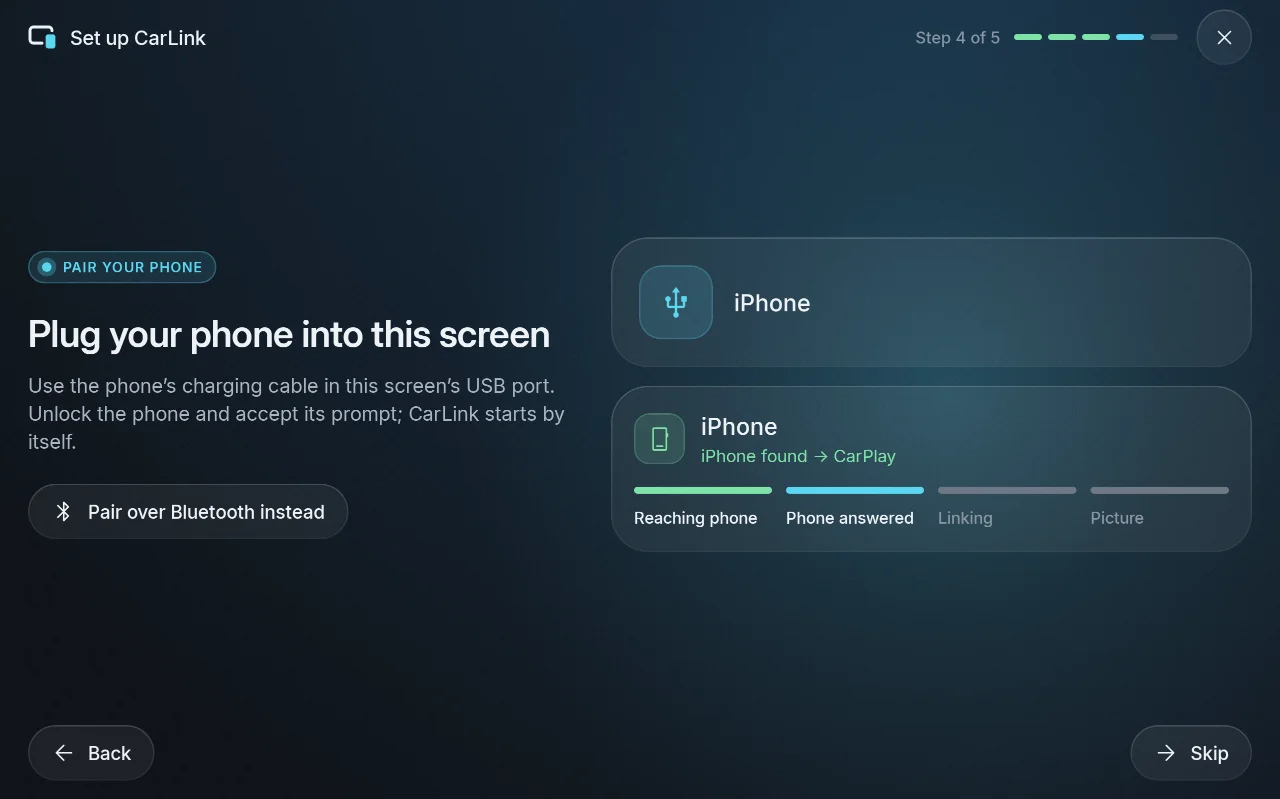
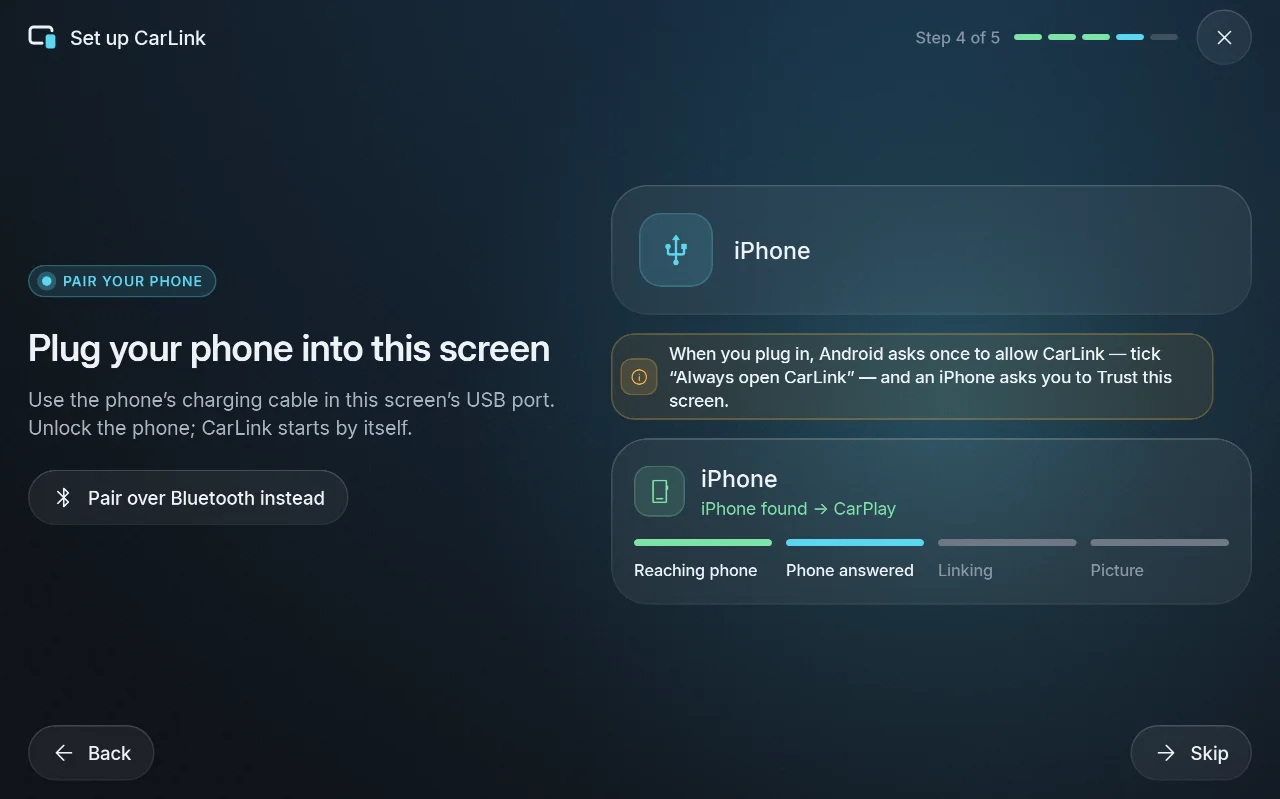
Ask for the overlay and the VPN consent up front in setup
On the tablet a first drive met three system prompts at connect time.
The Access step now marks "Display over other apps" and the wired CarPlay
VPN as Recommended, each with a one-line reason, and keeps "Allow all" the
lit action until both are allowed (Continue still works). Allowing the VPN
tries the silent adb consent first and opens Android's dialog only when
that cannot help. The overlay row still opens the per-app overlay page.

The cable pairing step says what to expect before plugging in: Android's
one-time "Always open CarLink" prompt and the iPhone's Trust prompt.

Gallery: setup/permissions-recommended and setup/pair-cable-waiting, also
at headunit-1024x600.

Changed region(s): [[0.4688, 0.2703, 0.9688, 0.7209], [0.0, 0.3004, 0.4375, 0.5707], [0.0312, 0.6008, 0.2812, 0.6608]]

diff --git a/app/src/main/java/com/carlink/app/ui/setup/SetupScreen.kt b/app/src/main/java/com/carlink/app/ui/setup/SetupScreen.kt
@@ -54,6 +54,7 @@ import androidx.compose.runtime.mutableLongStateOf
 import androidx.compose.runtime.mutableStateOf
 import androidx.compose.runtime.produceState
 import androidx.compose.runtime.remember
+import androidx.compose.runtime.rememberCoroutineScope
 import androidx.compose.runtime.saveable.listSaver
 import androidx.compose.runtime.saveable.rememberSaveable
 import androidx.compose.runtime.setValue
@@ -110,6 +111,7 @@ import com.carlink.app.ui.theme.CarLinkTokens
 import com.carlink.app.ui.theme.CarMotion
 import com.carlink.app.ui.theme.LocalReduceMotion
 import com.carlink.app.ui.theme.WidthClass
+import com.carlink.core.connection.AdbVpnConsent
 import com.carlink.core.connection.PairingSession
 import com.carlink.core.core.Engine
 import com.carlink.core.core.LinkStage
@@ -118,6 +120,9 @@ import com.carlink.core.core.PhoneKind
 import com.carlink.core.core.Transport
 import com.carlink.core.detect.PairedPhone
 import com.carlink.core.settings.CarBrand
+import kotlinx.coroutines.Dispatchers
+import kotlinx.coroutines.launch
+import kotlinx.coroutines.withContext
 
 /**
  * First-time setup (design/RESEARCH_PLUG_AND_PLAY.md "Lessons"): welcome, one permission step
@@ -148,6 +153,7 @@ fun SetupScreen(vm: CarLinkViewModel, start: SetupStep, onExit: () -> Unit) {
     val wirelessUnavailable by vm.wirelessUnavailable.collectAsStateWithLifecycle()
     val home by vm.home.collectAsStateWithLifecycle()
     val pairing = remember { PairingSession(context) }
+    val scope = rememberCoroutineScope()
     DisposableEffect(step == SetupStep.PAIR) {
         if (step == SetupStep.PAIR) pairing.start()
         onDispose { pairing.close() }
@@ -215,7 +221,11 @@ fun SetupScreen(vm: CarLinkViewModel, start: SetupStep, onExit: () -> Unit) {
                     Uri.parse("package:${context.packageName}"))) { SystemScreens.openOverlaySettings(context) }
                 GrantKind.BATTERY -> launchOr(system, Intent(Settings.ACTION_REQUEST_IGNORE_BATTERY_OPTIMIZATIONS,
                     Uri.parse("package:${context.packageName}"))) { SystemScreens.openBatterySettings(context) }
-                GrantKind.VPN -> android.net.VpnService.prepare(context)?.let { launchOr(system, it) { } } ?: run { reads++ }
+                // The stereo's own approved adb can allow it with no dialog; Android's dialog otherwise.
+                GrantKind.VPN -> scope.launch {
+                    if (withContext(Dispatchers.IO) { AdbVpnConsent.ensure(context) }) reads++
+                    else android.net.VpnService.prepare(context)?.let { launchOr(system, it) { } } ?: run { reads++ }
+                }
             }
         }
         override fun setCarBrand(brand: CarBrand) = vm.setCarBrand(brand)
@@ -433,7 +443,7 @@ private fun SetupBottomBar(ui: SetupUi, actions: SetupActions, margin: Dp) {
             SetupStep.WELCOME -> IonButton(stringResource(R.string.carlink_setup_welcome_start), actions::next,
                 icon = R.drawable.carlink_ic_arrow_forward)
             // One lit action per screen: while something needed is missing, "Allow all" is the lit one.
-            SetupStep.PERMISSIONS -> if (ui.missingRequired > 0) {
+            SetupStep.PERMISSIONS -> if (ui.missingNeeded > 0) {
                 GlassButton(stringResource(R.string.carlink_setup_continue), actions::next, icon = R.drawable.carlink_ic_arrow_forward)
             } else {
                 IonButton(stringResource(R.string.carlink_setup_continue), actions::next, icon = R.drawable.carlink_ic_arrow_forward)
@@ -563,7 +573,7 @@ private fun pairCopy(ui: SetupUi): Copy {
 @Composable
 private fun PermissionSummary(ui: SetupUi, actions: SetupActions) {
     val colors = CarLinkTokens.colors
-    val all = ui.missingRequired == 0
+    val all = ui.missingNeeded == 0
     Row(verticalAlignment = Alignment.CenterVertically) {
         IconTile(if (all) R.drawable.carlink_ic_check_circle_filled else R.drawable.carlink_ic_lock,
             tint = if (all) colors.success else colors.warning, size = if (isCar) 48.dp else 36.dp)
@@ -667,8 +677,12 @@ private fun PermissionList(ui: SetupUi, actions: SetupActions) {
                 icon = p.item.icon,
                 onClick = if (p.granted) null else ({ actions.allow(p.item) }),
                 role = androidx.compose.ui.semantics.Role.Button,
-                tags = if (p.item.optional && !p.granted) ({ Tag(stringResource(R.string.carlink_setup_permission_optional),
-                    scheme.onSurfaceVariant) }) else null,
+                tags = when {
+                    p.granted -> null
+                    p.item.need == Need.RECOMMENDED -> ({ Tag(stringResource(R.string.carlink_setup_permission_recommended), scheme.primary) })
+                    p.item.need == Need.OPTIONAL -> ({ Tag(stringResource(R.string.carlink_setup_permission_optional), scheme.onSurfaceVariant) })
+                    else -> null
+                },
             ) {
                 if (p.granted) {
                     Row(verticalAlignment = Alignment.CenterVertically) {
@@ -693,6 +707,10 @@ private fun PairPanel(ui: SetupUi, actions: SetupActions) {
     val session = sessionOf(ui)
     Column(verticalArrangement = Arrangement.spacedBy(dimens.gutter)) {
         if (ui.cable) CableCard(session) else NameCard(ui, actions)
+        // The first cable connection's two one-time prompts, said before they appear.
+        if (ui.cable && session?.stage != LinkStage.CONNECTED) {
+            NoticeLine(stringResource(R.string.carlink_setup_pair_cable_prompts), R.drawable.carlink_ic_info)
+        }
         // On a stereo whose Bluetooth apps cannot use, say so before the driver pairs (the failure copy says it after).
         val externalFailure = session?.stage == LinkStage.FAILED && session.problem == com.carlink.core.core.LinkProblem.EXTERNAL_BLUETOOTH
         if (ui.wirelessUnavailable && !ui.cable && !externalFailure && session?.stage != LinkStage.CONNECTED) {

diff --git a/app/src/main/java/com/carlink/app/ui/setup/SetupModel.kt b/app/src/main/java/com/carlink/app/ui/setup/SetupModel.kt
@@ -21,16 +21,23 @@ enum class SetupStep { WELCOME, PERMISSIONS, CAR, PAIR, DONE }
 enum class GrantKind { RUNTIME, OVERLAY, BATTERY, VPN }
 
 /**
- * One line of the permission step: what it is for, in one line, and whether a session needs it
- * ([optional] items can be skipped). Runtime items group Android permissions the driver thinks
- * of as one thing (Bluetooth connect + scan, fine + coarse location).
+ * How much a session needs a [SetupItem]. Recommended items are not needed to connect, but
+ * without them Android asks (VPN) or CarLink cannot come forward (overlay) in the middle of a
+ * drive, so the setup marks them and asks for them up front.
+ */
+enum class Need { REQUIRED, RECOMMENDED, OPTIONAL }
+
+/**
+ * One line of the permission step: what it is for, in one line, and how much a session needs it
+ * ([need]; a missing optional one leaves "Allow all" unlit). Runtime items group Android
+ * permissions the driver thinks of as one thing (Bluetooth connect + scan, fine + coarse location).
  */
 enum class SetupItem(
     @param:DrawableRes val icon: Int,
     @param:StringRes val title: Int,
     @param:StringRes val purpose: Int,
     val grant: GrantKind,
-    val optional: Boolean = false,
+    val need: Need = Need.REQUIRED,
 ) {
     BLUETOOTH(R.drawable.carlink_ic_bluetooth, R.string.carlink_setup_perm_bluetooth, R.string.carlink_setup_perm_bluetooth_detail, GrantKind.RUNTIME),
     NEARBY_WIFI(R.drawable.carlink_ic_p2p, R.string.carlink_setup_perm_wifi, R.string.carlink_setup_perm_wifi_detail, GrantKind.RUNTIME),
@@ -40,10 +47,11 @@ enum class SetupItem(
     MICROPHONE(R.drawable.carlink_ic_mic, R.string.carlink_setup_perm_microphone, R.string.carlink_setup_perm_microphone_detail, GrantKind.RUNTIME),
     NOTIFICATIONS(R.drawable.carlink_ic_notifications, R.string.carlink_setup_perm_notifications,
         R.string.carlink_setup_perm_notifications_detail, GrantKind.RUNTIME),
-    OVERLAY(R.drawable.carlink_ic_layers, R.string.carlink_setup_perm_overlay, R.string.carlink_setup_perm_overlay_detail, GrantKind.OVERLAY),
+    OVERLAY(R.drawable.carlink_ic_layers, R.string.carlink_setup_perm_overlay, R.string.carlink_setup_perm_overlay_detail, GrantKind.OVERLAY,
+        Need.RECOMMENDED),
+    VPN(R.drawable.carlink_ic_cable, R.string.carlink_setup_perm_vpn, R.string.carlink_setup_perm_vpn_detail, GrantKind.VPN, Need.RECOMMENDED),
     BATTERY(R.drawable.carlink_ic_battery_charging_full, R.string.carlink_setup_perm_battery, R.string.carlink_setup_perm_battery_detail,
-        GrantKind.BATTERY, optional = true),
-    VPN(R.drawable.carlink_ic_cable, R.string.carlink_setup_perm_vpn, R.string.carlink_setup_perm_vpn_detail, GrantKind.VPN, optional = true),
+        GrantKind.BATTERY, Need.OPTIONAL),
 }
 
 /** A [SetupItem] with the Android permissions behind it on this device and whether it is granted. */
@@ -65,7 +73,7 @@ object SetupPermissions {
             of(SetupItem.MICROPHONE, Manifest.permission.RECORD_AUDIO),
             of(SetupItem.NOTIFICATIONS, POST_NOTIFICATIONS),
         ).filter { it.second.isNotEmpty() }
-        return groups + listOf(SetupItem.OVERLAY to emptyList(), SetupItem.BATTERY to emptyList(), SetupItem.VPN to emptyList())
+        return groups + listOf(SetupItem.OVERLAY to emptyList(), SetupItem.VPN to emptyList(), SetupItem.BATTERY to emptyList())
     }
 
     /** The runtime permissions the setup asks for in one dialog. */
@@ -101,7 +109,8 @@ data class SetupUi(
     /** This stereo's Bluetooth is an external module apps cannot use: wireless cannot start here yet. */
     val wirelessUnavailable: Boolean = false,
 ) {
-    val missingRequired: Int get() = permissions.count { !it.granted && !it.item.optional }
+    /** Required and recommended items not allowed yet; while any is, "Allow all" is the lit action. */
+    val missingNeeded: Int get() = permissions.count { !it.granted && it.item.need != Need.OPTIONAL }
     val missing: Int get() = permissions.count { !it.granted }
 }
 

diff --git a/app/src/test/java/com/carlink/app/gallery/SetupEntries.kt b/app/src/test/java/com/carlink/app/gallery/SetupEntries.kt
@@ -1,5 +1,6 @@
 package com.carlink.app.gallery
 
+import com.carlink.app.ui.setup.Need
 import com.carlink.app.ui.setup.SetupActions
 import com.carlink.app.ui.setup.SetupContent
 import com.carlink.app.ui.setup.SetupItem
@@ -28,6 +29,8 @@ internal fun setupEntries(): List<GalleryEntry> = with(HomeFakes) {
         SetupPermission(item, names, granted = item == SetupItem.BLUETOOTH || item == SetupItem.LOCATION)
     }
     val allGranted = permissions.map { it.copy(granted = it.item != SetupItem.VPN) }
+    // Everything a session needs is allowed; the recommended overlay and VPN (and optional battery) are not yet.
+    val recommendedMissing = permissions.map { it.copy(granted = it.item.need == Need.REQUIRED) }
     fun ui(step: SetupStep, pairing: PairingSession.State = PairingSession.State.Waiting(carName), visible: Boolean = true,
            link: LinkState = LinkState.Idle, phone: PairedPhone? = null, cable: Boolean = false,
            known: List<PairedPhone> = emptyList(), perms: List<SetupPermission> = permissions,
@@ -38,6 +41,7 @@ internal fun setupEntries(): List<GalleryEntry> = with(HomeFakes) {
     listOf(
         entry("welcome") { ui(SetupStep.WELCOME) },
         entry("permissions") { ui(SetupStep.PERMISSIONS) },
+        entry("permissions-recommended") { ui(SetupStep.PERMISSIONS, perms = recommendedMissing) },
         // Nothing chosen on a generic screen: "Other" is in effect.
         entry("car") { ui(SetupStep.CAR, perms = allGranted) },
         // A BYD DiLink unit, detected; the BYD tile is in effect and the DiLink extras are explained.
@@ -58,6 +62,8 @@ internal fun setupEntries(): List<GalleryEntry> = with(HomeFakes) {
             ui(SetupStep.PAIR, PairingSession.State.Paired(pixel.address, pixel.name, PhoneKind.ANDROID), perms = allGranted, phone = pixel,
                 link = LinkState(LinkStage.CONNECTED, Engine.ANDROID_AUTO, Transport.WIRELESS, pixel.name, 4, 4))
         },
+        // "Plug in with a cable" chosen, nothing plugged in yet: the one-time prompts are said first.
+        entry("pair-cable-waiting") { ui(SetupStep.PAIR, perms = allGranted, cable = true) },
         entry("pair-cable") {
             ui(SetupStep.PAIR, perms = allGranted, cable = true,
                 link = LinkState(LinkStage.CONNECTING, Engine.CARPLAY, Transport.USB, "iPhone", 2, 4))

diff --git a/app/src/test/java/com/carlink/app/gallery/ScreenshotGallery.kt b/app/src/test/java/com/carlink/app/gallery/ScreenshotGallery.kt
@@ -57,7 +57,8 @@ data class GalleryConfig(
 /** The low-end head-unit configs render these states (docs/LOW_END_PERFORMANCE.md). */
 private val lowEndEntries = setOf("home/ready-no-phone", "home/ready-iphone-same-wifi-offer", "home/connecting-carplay-usb",
     "home/connected-carplay", "home/failed-wifi-off", "home/sheet-phones", "settings/general-lab", "settings/sheet-rendering",
-    "home/connecting-notice-wifi", "setup/permissions", "setup/pair-waiting", "setup/pair-found-iphone",
+    "home/connecting-notice-wifi", "setup/permissions", "setup/permissions-recommended", "setup/pair-waiting",
+    "setup/pair-found-iphone", "setup/pair-cable-waiting",
     // A stereo whose Bluetooth is an external module (the user's FYT unit is a 1280×720 cheap head unit).
     "home/failed-external-bluetooth", "diagnostics/stereo-bluetooth-external", "setup/pair-external-bluetooth",
     // Report on GitHub from the stereo itself (Diagnostics, Home's failure state).

diff --git a/app/src/test/java/com/carlink/app/connection/LinkNoticeMappingTest.kt b/app/src/test/java/com/carlink/app/connection/LinkNoticeMappingTest.kt
@@ -2,6 +2,7 @@ package com.carlink.app.connection
 
 import com.carlink.app.ui.home.PhoneUsual
 import com.carlink.app.ui.home.usualFor
+import com.carlink.app.ui.setup.Need
 import com.carlink.app.ui.setup.SetupItem
 import com.carlink.app.ui.setup.SetupPermissions
 import com.carlink.core.connection.CarPlayPreflight
@@ -113,6 +114,7 @@ class LinkNoticeMappingTest {
         assertTrue(CarPlayPreflight.ACCESS_LOCAL_NETWORK in runtime)
         val items = SetupPermissions.items(37, runtime).map { it.first }
         assertTrue(items.containsAll(listOf(SetupItem.OVERLAY, SetupItem.BATTERY, SetupItem.VPN)))
-        assertTrue(SetupItem.BATTERY.optional && SetupItem.VPN.optional && !SetupItem.OVERLAY.optional)
+        assertEquals(listOf(Need.RECOMMENDED, Need.RECOMMENDED, Need.OPTIONAL),
+            listOf(SetupItem.OVERLAY, SetupItem.VPN, SetupItem.BATTERY).map { it.need })
     }
 }
